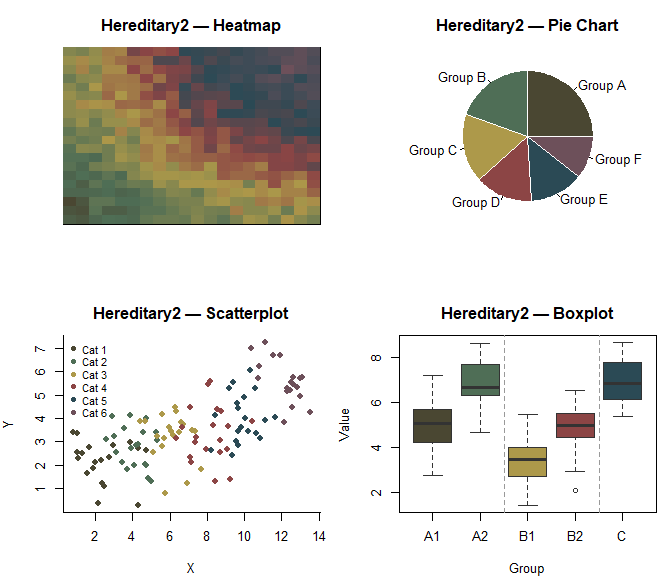
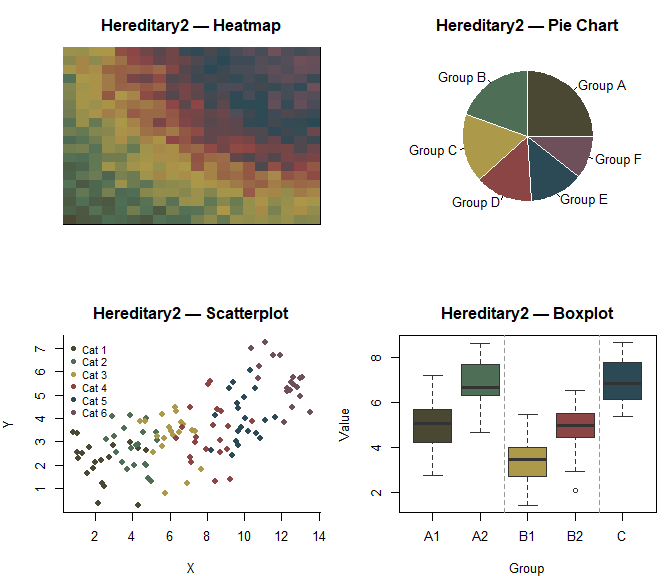
added figures to readme

Changed region(s): [[0.0938, 0.0625, 0.5, 0.4062]]

diff --git a/README.md b/README.md
@@ -31,111 +31,99 @@ names(ari_palettes)
 
 ``` r
 ari_palette("Hereditary1")
-#> [1] "#EBAB87" "#EC9C39" "#A66329" "#A64521" "#592411"
-#> attr(,"class")
-#> [1] "palette"
-#> attr(,"name")
-#> [1] "Hereditary1"
-ari_palette("Hereditary2")
-#> [1] "#4a4732" "#4f6e56" "#ad994a" "#8c4545" "#2b4a55" "#6d505a"
-#> attr(,"class")
-#> [1] "palette"
-#> attr(,"name")
-#> [1] "Hereditary2"
-ari_palette("Hereditary3")
-#> [1] "#122627" "#416048" "#F2E963" "#D9851E" "#523215"
-#> attr(,"class")
-#> [1] "palette"
-#> attr(,"name")
-#> [1] "Hereditary3"
-ari_palette("Hereditary4")
-#> [1] "#8C2920" "#D76334" "#364F28" "#7C9118" "#B68A63"
-#> attr(,"class")
-#> [1] "palette"
-#> attr(,"name")
-#> [1] "Hereditary4"
 ```
+
+![](figure/hereditary-1.png)
+
+``` r
+ari_palette("Hereditary2")
+```
+
+![](figure/hereditary-2.png)
+
+``` r
+ari_palette("Hereditary3")
+```
+
+![](figure/hereditary-3.png)
+
+``` r
+ari_palette("Hereditary4")
+```
+
+![](figure/hereditary-4.png)
 
 ### Midsommar (2019)
 
 ``` r
 ari_palette("Midsommar1")
-#> [1] "#CB0100" "#7AB53D" "#F9CB00" "#F66A0B" "#1C47B7" "#DD0489"
-#> attr(,"class")
-#> [1] "palette"
-#> attr(,"name")
-#> [1] "Midsommar1"
-ari_palette("Midsommar2")
-#> [1] "#EFBB29" "#FF5E2A" "#D42A1D" "#9B1F17" "#401111"
-#> attr(,"class")
-#> [1] "palette"
-#> attr(,"name")
-#> [1] "Midsommar2"
-ari_palette("Midsommar3")
-#> [1] "#766FA6" "#8594A9" "#4F686B" "#AD8A2A" "#C1BCB2"
-#> attr(,"class")
-#> [1] "palette"
-#> attr(,"name")
-#> [1] "Midsommar3"
-ari_palette("Midsommar4")
-#> [1] "#4679A6" "#BFCDD0" "#86816B" "#AA7C6C" "#36312D"
-#> attr(,"class")
-#> [1] "palette"
-#> attr(,"name")
-#> [1] "Midsommar4"
 ```
+
+![](figure/midsommar-1.png)
+
+``` r
+ari_palette("Midsommar2")
+```
+
+![](figure/midsommar-2.png)
+
+``` r
+ari_palette("Midsommar3")
+```
+
+![](figure/midsommar-3.png)
+
+``` r
+ari_palette("Midsommar4")
+```
+
+![](figure/midsommar-4.png)
 
 ### Beau Is Afraid (2023)
 
 ``` r
 ari_palette("Beau1")
-#> [1] "#A5120F" "#F27405" "#D6B575" "#4C7AAD" "#0B0560"
-#> attr(,"class")
-#> [1] "palette"
-#> attr(,"name")
-#> [1] "Beau1"
-ari_palette("Beau2")
-#> [1] "#BDD3E0" "#324001" "#808C23" "#B8BF7E" "#D92B04"
-#> attr(,"class")
-#> [1] "palette"
-#> attr(,"name")
-#> [1] "Beau2"
-ari_palette("Beau3")
-#> [1] "#9B2E35" "#387148" "#114C89" "#CAB851" "#8B4928"
-#> attr(,"class")
-#> [1] "palette"
-#> attr(,"name")
-#> [1] "Beau3"
-ari_palette("BeauMonster")
-#> [1] "#F2EB85" "#625125" "#D9C0BA" "#402A2D" "#0D0D0D"
-#> attr(,"class")
-#> [1] "palette"
-#> attr(,"name")
-#> [1] "BeauMonster"
 ```
+
+![](figure/beau-1.png)
+
+``` r
+ari_palette("Beau2")
+```
+
+![](figure/beau-2.png)
+
+``` r
+ari_palette("Beau3")
+```
+
+![](figure/beau-3.png)
+
+``` r
+ari_palette("BeauMonster")
+```
+
+![](figure/beau-4.png)
 
 ### Eddington (2025)
 
 ``` r
 ari_palette("Eddington1")
-#> [1] "#485249" "#6E705A" "#D3C598" "#D98346" "#D93720"
-#> attr(,"class")
-#> [1] "palette"
-#> attr(,"name")
-#> [1] "Eddington1"
-ari_palette("Eddington2")
-#> [1] "#779C95" "#3B5355" "#A97162" "#73392C" "#736D68"
-#> attr(,"class")
-#> [1] "palette"
-#> attr(,"name")
-#> [1] "Eddington2"
-ari_palette("Eddington3")
-#> [1] "#0477BF" "#F20505" "#6A152C" "#137850" "#6F4106"
-#> attr(,"class")
-#> [1] "palette"
-#> attr(,"name")
-#> [1] "Eddington3"
 ```
+
+![](figure/eddington-1.png)
+
+``` r
+ari_palette("Eddington2")
+```
+
+![](figure/eddington-2.png)
+
+``` r
+ari_palette("Eddington3")
+```
+
+![](figure/eddington-3.png)
 
 ## Continuous palettes
 